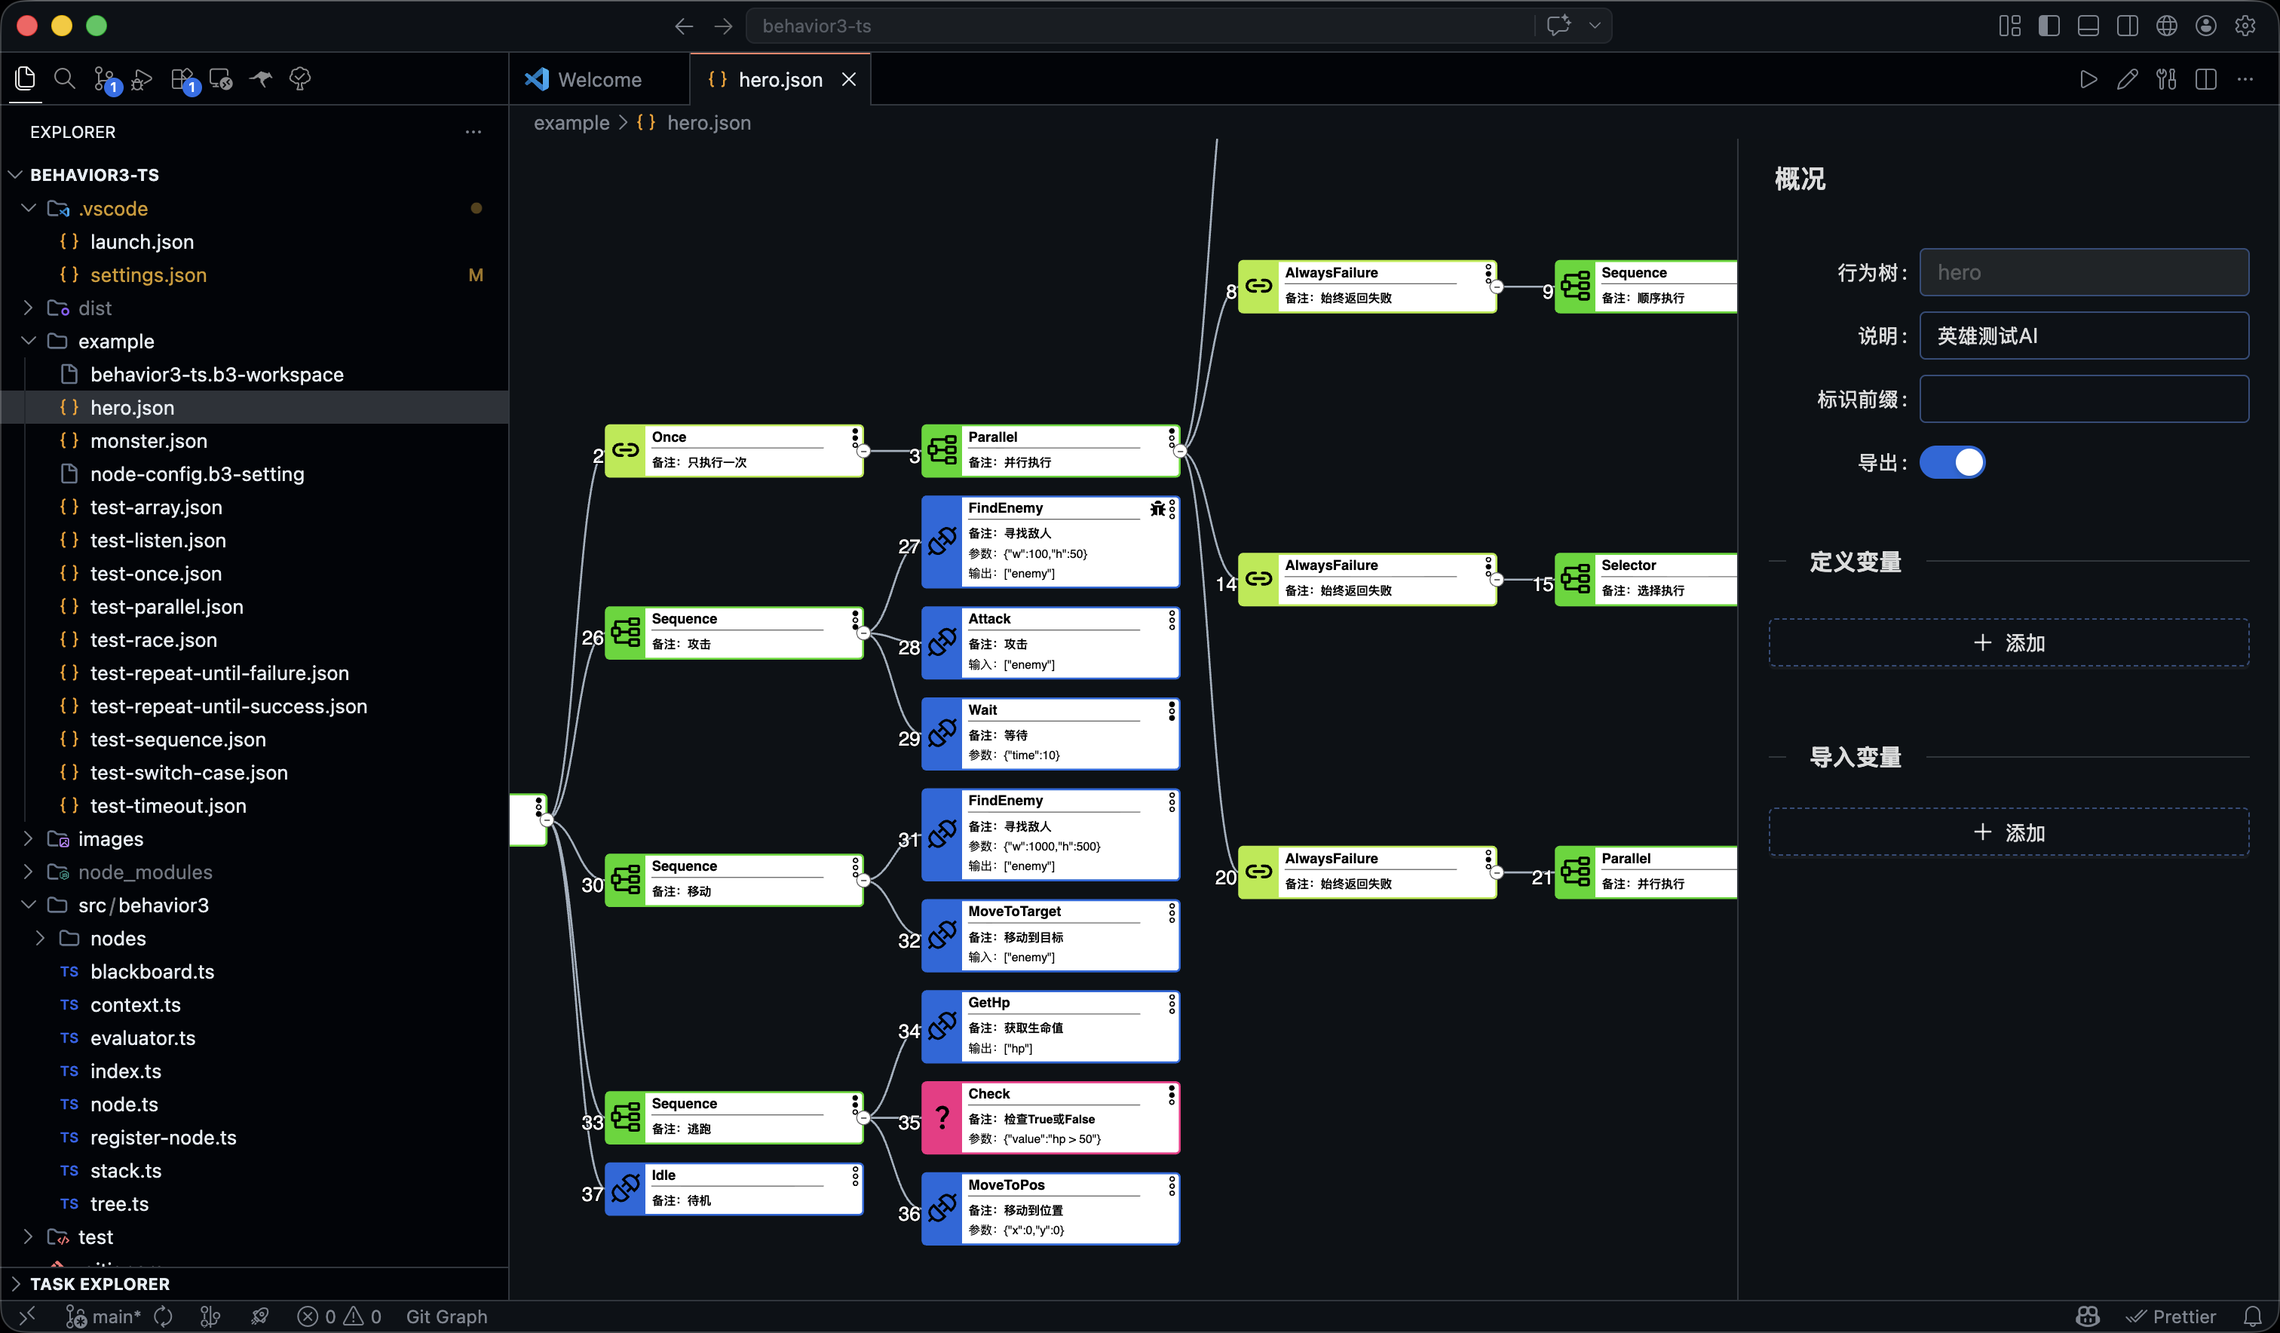
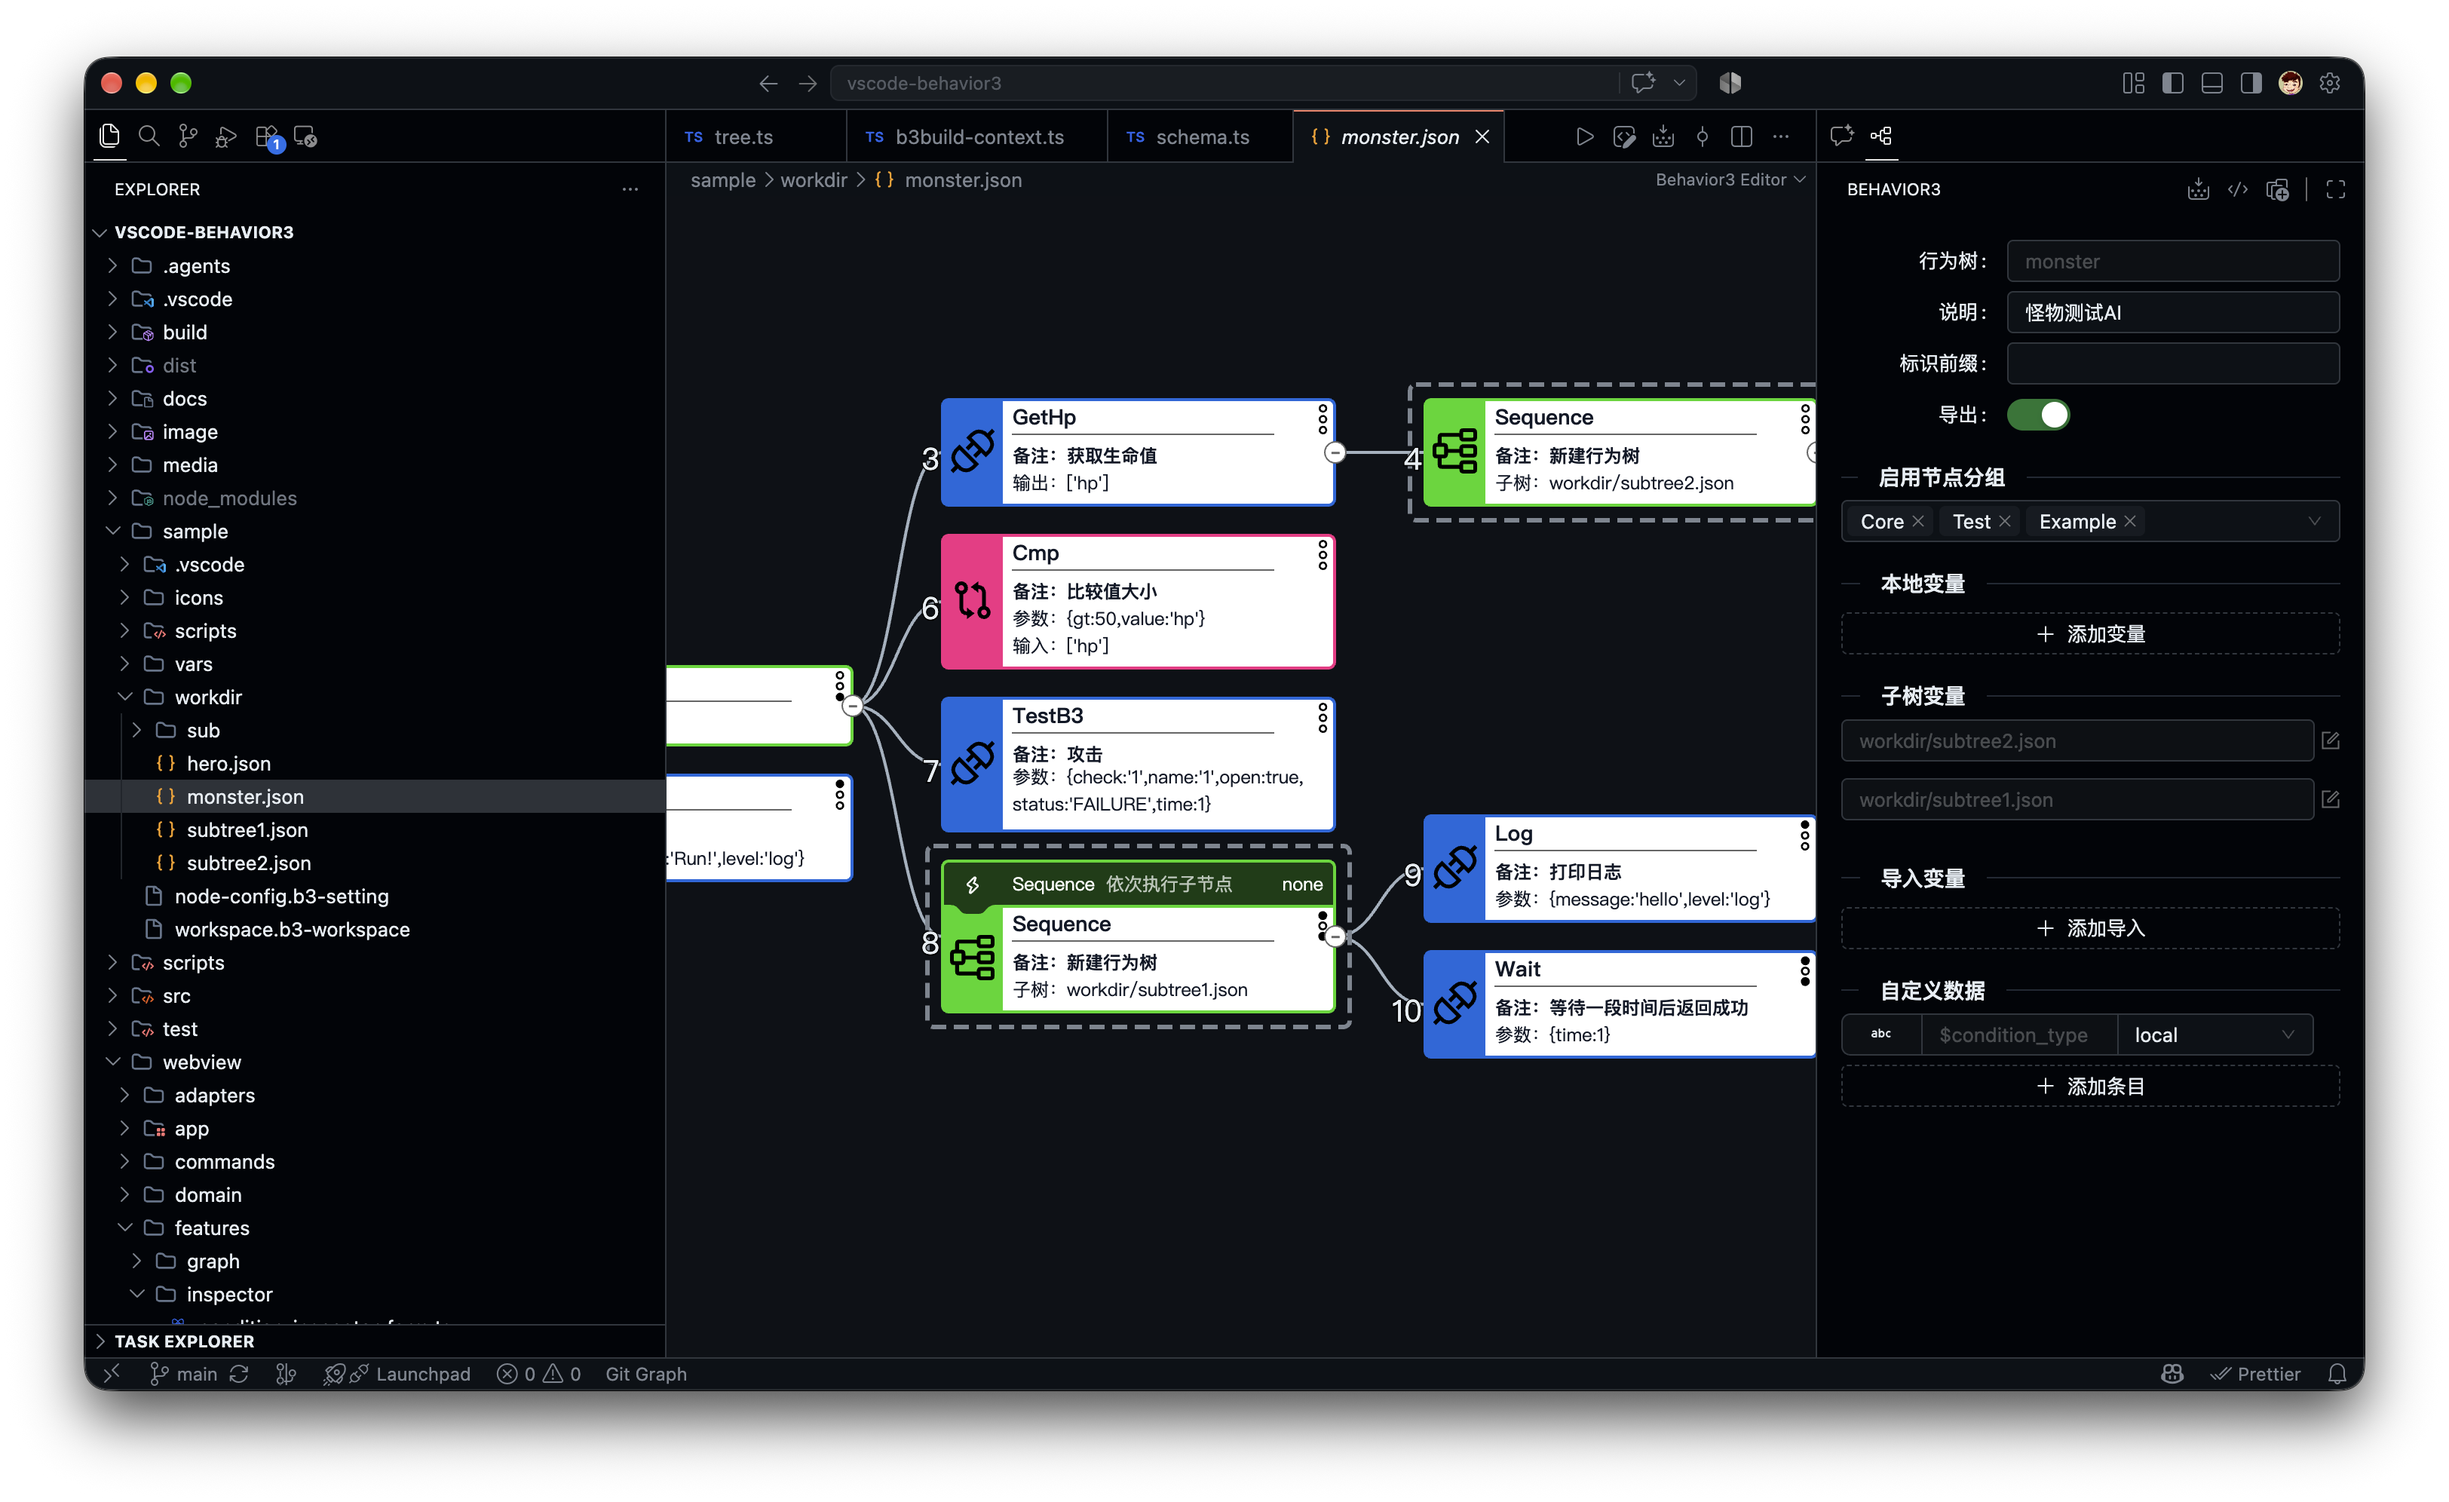
Take the tree and index of a node from the tree being created
NodeData mirrors the file format, the runtime no longer writes `tree` and
`index` into it. A node takes its tree name and index from `Node.__createRoot`,
disabled nodes are not indexed.

diff --git a/src/behavior3/node.ts b/src/behavior3/node.ts
@@ -180,10 +180,6 @@ export interface NodeData {
     output: string[];
     children: NodeData[];
     conditions?: ConditionData[];
-
-    tree: TreeData;
-    /** The index of the node in the tree, assigned when the tree is created. */
-    index: number;
 }
 
 export interface Condition {
@@ -192,6 +188,9 @@ export interface Condition {
 }
 
 const ABORT_MODES: readonly AbortMode[] = ["none", "self", "lower", "both"];
+
+/** The tree being created by `Node.__createRoot`, its nodes take their tree and index from it. */
+let creating: { tree: TreeData; index: number } | undefined;
 
 const deepFreeze = <T>(value: T): T => {
     if (value && typeof value === "object" && !Object.isFrozen(value)) {
@@ -213,6 +212,7 @@ export abstract class Node {
     private _parent: Node | null = null;
     private _children: Node[] = [];
     private _cfg: NodeData;
+    private _treeName: string;
     private _jsonArgs: Record<string, string> | undefined;
     private _conditions: Condition[] = [];
     private _selfConditions: Condition[] = [];
@@ -223,7 +223,11 @@ export abstract class Node {
     constructor(context: Context, cfg: NodeData) {
         this._context = context;
         this._cfg = cfg;
-        this.index = cfg.index;
+        if (!creating) {
+            throw new Error(`behavior3: node '${cfg.name}' is created outside of a tree`);
+        }
+        this._treeName = creating.tree.name;
+        this.index = creating.index++;
 
         const descriptor = context.nodeDefs[cfg.name] as NodeDef | undefined;
         Object.keys(cfg.args).forEach((k) => {
@@ -275,6 +279,11 @@ export abstract class Node {
 
     get cfg() {
         return this._cfg;
+    }
+
+    /** `tree->name#id`, the prefix of the messages of the node. */
+    private get _location() {
+        return `${this._treeName}->${this.name}#${this.id}`;
     }
 
     get id() {
@@ -451,7 +460,7 @@ export abstract class Node {
         } catch (e) {
             const error = e instanceof Error ? e : new Error(String(e));
             const msg = error.stack ?? error.message;
-            if (error.message.startsWith(`${cfg.tree.name}->${this.name}#${this.id}: `)) {
+            if (error.message.startsWith(`${this._location}: `)) {
                 // thrown by `node.throw`, the message already has the location of the node
                 console.error(msg);
             } else {
@@ -535,28 +544,28 @@ export abstract class Node {
      * throw an error
      */
     throw(msg: string): never {
-        throw new Error(`${this.cfg.tree.name}->${this.name}#${this.id}: ${msg}`);
+        throw new Error(`${this._location}: ${msg}`);
     }
 
     /**
      * use console.error to print error message
      */
     error(msg: string) {
-        console.error(`${this.cfg.tree.name}->${this.name}#${this.id}: ${msg}`);
+        console.error(`${this._location}: ${msg}`);
     }
 
     /**
      * use console.warn to print warning message
      */
     warn(msg: string) {
-        console.warn(`${this.cfg.tree.name}->${this.name}#${this.id}: ${msg}`);
+        console.warn(`${this._location}: ${msg}`);
     }
 
     /**
      * use console.debug to print debug message
      */
     debug(msg: string) {
-        console.debug(`${this.cfg.tree.name}->${this.name}#${this.id}: ${msg}`);
+        console.debug(`${this._location}: ${msg}`);
     }
 
     /**
@@ -564,14 +573,14 @@ export abstract class Node {
      */
 
     info(msg: string) {
-        console.info(`${this.cfg.tree.name}->${this.name}#${this.id}: ${msg}`);
+        console.info(`${this._location}: ${msg}`);
     }
 
     /**
      * use console.log to print log message
      */
     log(msg: string) {
-        console.log(`${this.cfg.tree.name}->${this.name}#${this.id}: ${msg}`);
+        console.log(`${this._location}: ${msg}`);
     }
 
     /**
@@ -643,7 +652,7 @@ export abstract class Node {
         }
         const indent = " ".repeat(depth);
         console.info(
-            `[DEBUG] behavior3 -> ${indent}${this.name}: tree:${cfg.tree.name} tree_id:${tree.id}, ` +
+            `[DEBUG] behavior3 -> ${indent}${this.name}: tree:${this._treeName} tree_id:${tree.id}, ` +
                 `node:${this.id}, status:${status}${extra}, values:{${varStr}} args:${JSON.stringify(
                     cfg.args,
                 )}`,
@@ -730,12 +739,27 @@ export abstract class Node {
         }
     }
 
+    /**
+     * @private Creates the nodes of the tree, they are indexed in pre-order (the node, its
+     * conditions, its children), disabled nodes are not created and not indexed.
+     */
+    static __createRoot(context: Context, treeCfg: TreeData) {
+        const last = creating;
+        creating = { tree: treeCfg, index: 0 };
+        try {
+            return Node.create(context, treeCfg.root);
+        } finally {
+            creating = last;
+        }
+    }
+
     static create(context: Context, cfg: NodeData) {
         const NodeCls = context.nodeCtors[cfg.name] as NodeContructor<Node> | undefined;
         const descriptor = context.nodeDefs[cfg.name] as NodeDef | undefined;
 
         if (!NodeCls || !descriptor) {
-            throw new Error(`behavior3: node '${cfg.tree.name}->${cfg.name}' is not registered`);
+            const treeName = creating?.tree.name ?? "?";
+            throw new Error(`behavior3: node '${treeName}->${cfg.name}' is not registered`);
         }
 
         const node = new NodeCls(context, cfg);

diff --git a/src/behavior3/context.ts b/src/behavior3/context.ts
@@ -400,10 +400,7 @@ export abstract class Context {
     }
 
     protected _createTree(treeCfg: TreeData) {
-        let index = 0;
         const traverse = (cfg: NodeData) => {
-            cfg.tree = treeCfg;
-            cfg.index = index++;
             cfg.input ||= [];
             cfg.output ||= [];
             cfg.children ||= [];
@@ -413,7 +410,7 @@ export abstract class Context {
         };
         traverse(treeCfg.root);
 
-        const root = Node.create(this, treeCfg.root);
+        const root = Node.__createRoot(this, treeCfg);
         if (root.abortsLower) {
             root.warn(`'lower' has no effect: root node has no parent`);
         }

diff --git a/test/unit/helpers.ts b/test/unit/helpers.ts
@@ -426,7 +426,7 @@ export class TestContext extends Context {
                 name: path,
                 desc: "",
                 group: [],
-                root: structuredClone(this._sources.get(path)) as unknown as NodeData,
+                root: structuredClone(this._sources.get(path)) as NodeData,
             } satisfies TreeData;
             root = this._createTree(data);
             this.trees[path] = root;
